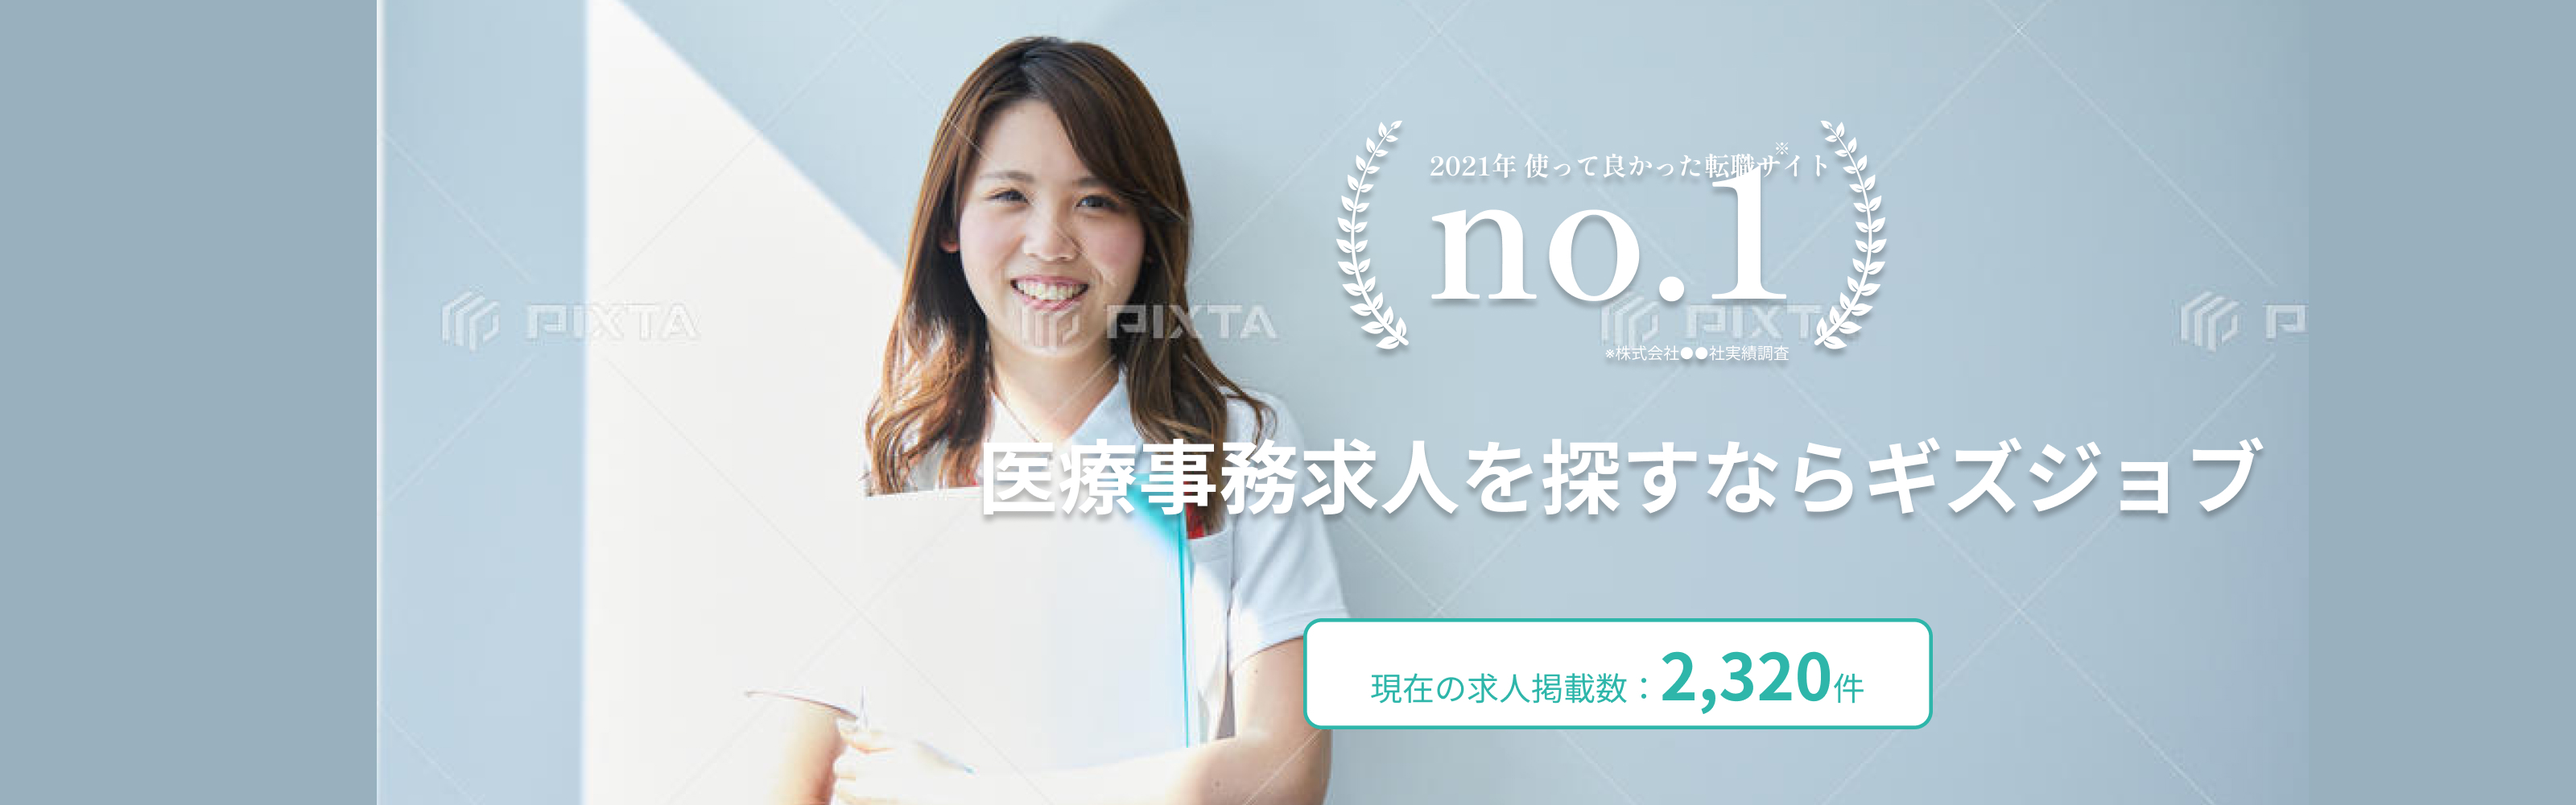
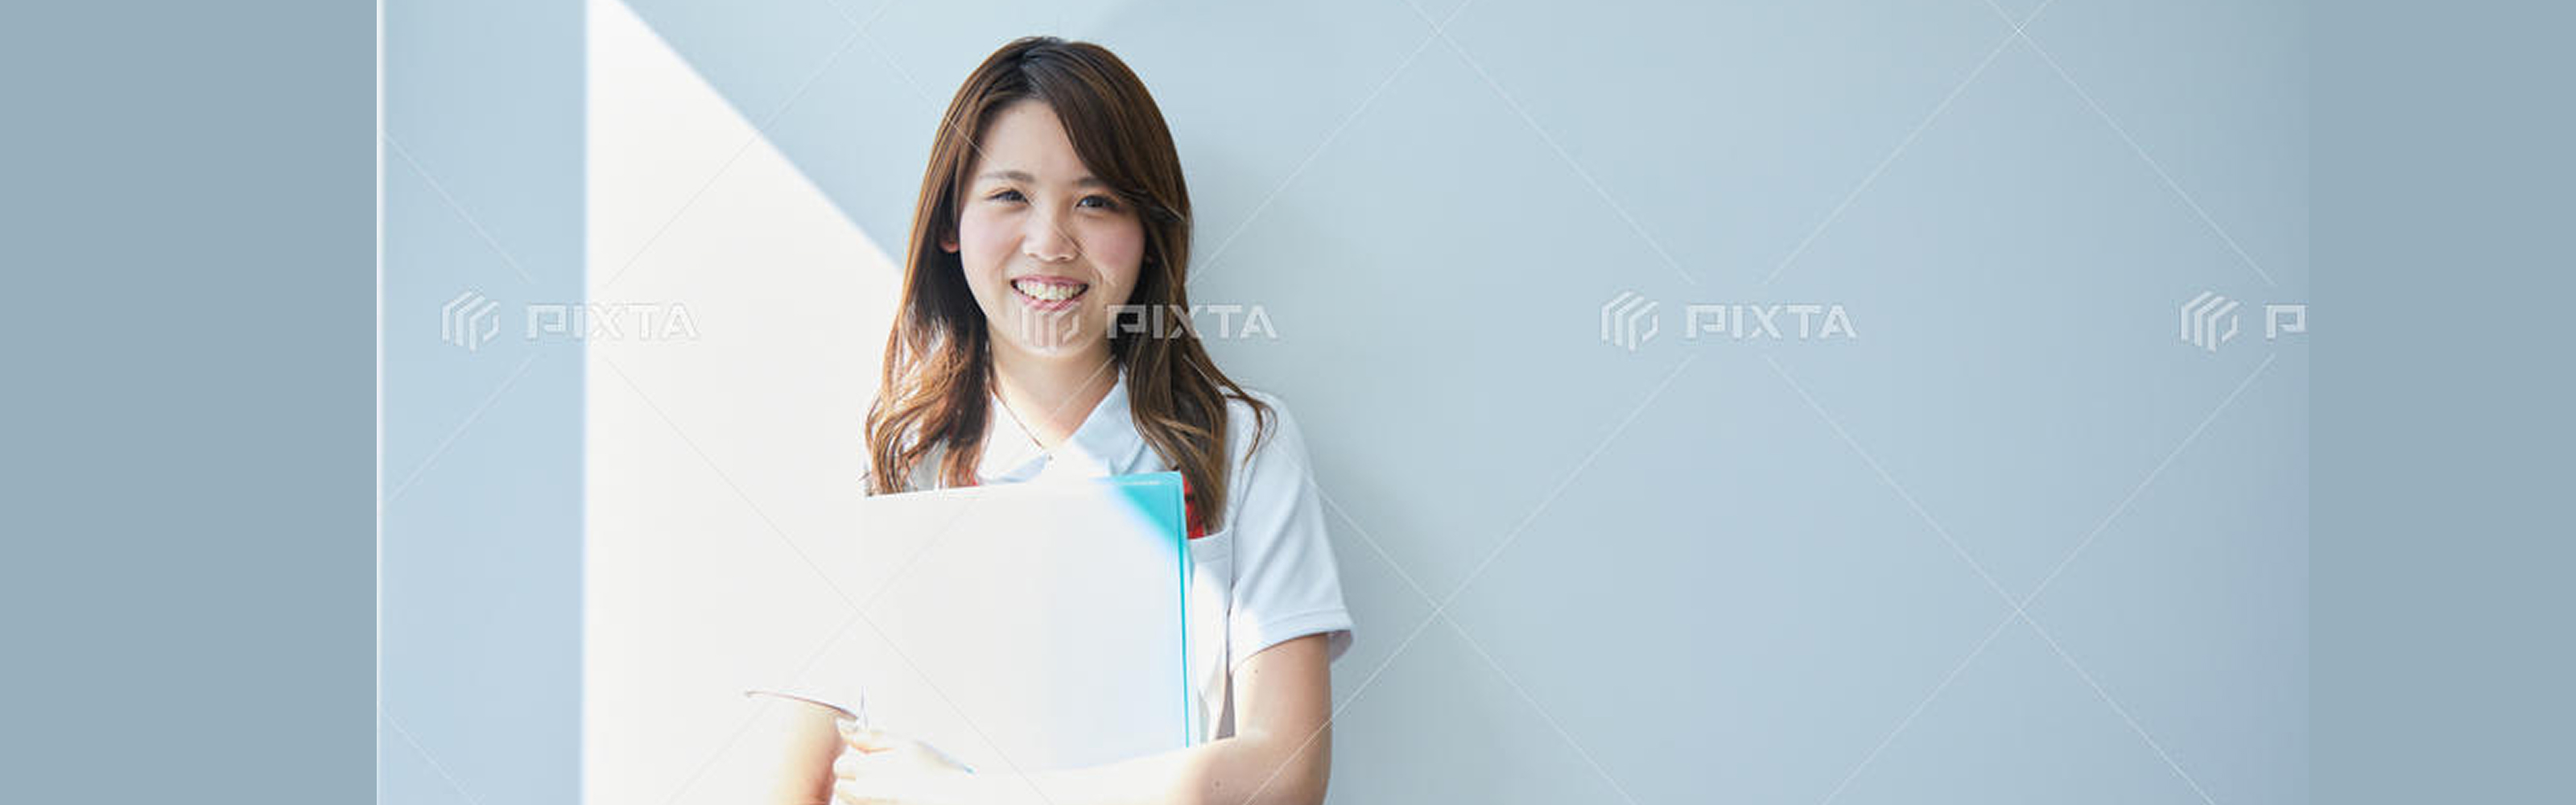
add:PC画面静的コーディング - 前半セクション実装

diff --git a/src/css/object/project/keyvisual.scss b/src/css/object/project/keyvisual.scss
@@ -2,4 +2,58 @@
 // ページ上部のキービジュアルに関するスタイル
 .p-keyvisual {
   width: 100%;
+  height: 500px;
+  background-image: url('../img/picture/keyvisual.jpg');
+  background-size: contain;
+  background-position: center;
+  background-repeat: no-repeat;
+  position: relative;
+
+  &__inner {
+    text-align: center;
+    position: absolute;
+    top: 47px;
+    left: 38%;
+    z-index: 10; 
+  }
+
+
+  &__badge {
+    width: 341.81px;
+  }
+
+  &__title {
+    font-size: 50px;
+    font-weight: utility.$bold;
+    text-shadow: utility.$textShadow;  
+    margin-top: 40px;
+    color: utility.$white;
+  }
+
+  &__text-box {
+    font-size: 20px;
+    font-weight: utility.$bold;
+    color: utility.$white;
+  }
+
+  &__job-count__box {
+    width: 391px;
+    margin: 59px auto 0 auto; 
+    background-color: utility.$white;
+    border: 2.3px solid utility.$green;
+    border-radius: 10px;
+
+    &__text {
+      font-size: 20px;
+      line-height: 58px;
+      text-align: center;
+      color: utility.$green;
+
+      & span {
+        font-size: 40px;
+        font-weight: utility.$bold;
+        color: utility.$green;
+      }  
+    }
+  }
 }

diff --git a/src/index.html b/src/index.html
@@ -36,9 +36,14 @@
   <main>
     <section class="p-keyvisual">
       <div class="p-keyvisual__inner">
-        <h1 class="p-keyvisual__title">
-          <img src="./img/picture/keyvisual.jpg" alt="ギズジョブ医療事務">
-        </h1>
+        <img src="./img/picture/keyvisual_badge.png" alt="2021年使って良かった転職サイト No.1" class="p-keyvisual__badge">
+        <h1 class="p-keyvisual__title">医療事務法人を探すならギズジョブ</h1>
+        <div class="p-keyvisual__job-count__box">
+          <p class="p-keyvisual__job-count__box__text">
+            現在の求人掲載数：
+            <span>2,320件</span>
+          </p>
+        </div>
       </div>
     </section>    
     <section class="l-inner p-job-search">
@@ -47,6 +52,7 @@
           <h2 class="p-job-search__title">
             お仕事検索
           </h2>
+          <p class="p-job-search__text">働きたい職種・地域・希望給与を入れて検索！</p>
           <div class="p-job-search__form">
             <form action="">
               <div class="p-job-search__form-item">

diff --git a/src/css/object/project/job-search.scss b/src/css/object/project/job-search.scss
@@ -17,6 +17,13 @@
     text-align: center;
   }
 
+  &__text {
+    font-size: 20px;
+    text-align: center;
+    line-height: 29px;
+    margin-top: 20px;
+  }
+
   &__form {
     margin-top: 26px;
   }

diff --git a/src/css/foundation/_variables.scss b/src/css/foundation/_variables.scss
@@ -1,5 +1,7 @@
 $white: #fff;
 $black: #000;
+$textShadow: 0 4px 4px rgba(0, 0, 0, 0.5);
+$green: #2EB6AA;
 $buttonBlue: #92C5EA;
 $buttonRed: #DE5579;
 

diff --git a/src/css/object/component/select.scss b/src/css/object/component/select.scss
@@ -8,6 +8,7 @@
   padding: 17px 15px;
   width: 200px;
   height: 60px;
+  font-size: 18px;
   
   &__wrapper {
     position: relative;

diff --git a/src/css/object/component/input.scss b/src/css/object/component/input.scss
@@ -7,4 +7,5 @@
   padding: 17px 15px;
   width: 300px;
   height: 60px;
+  font-size: 18px;
 }
